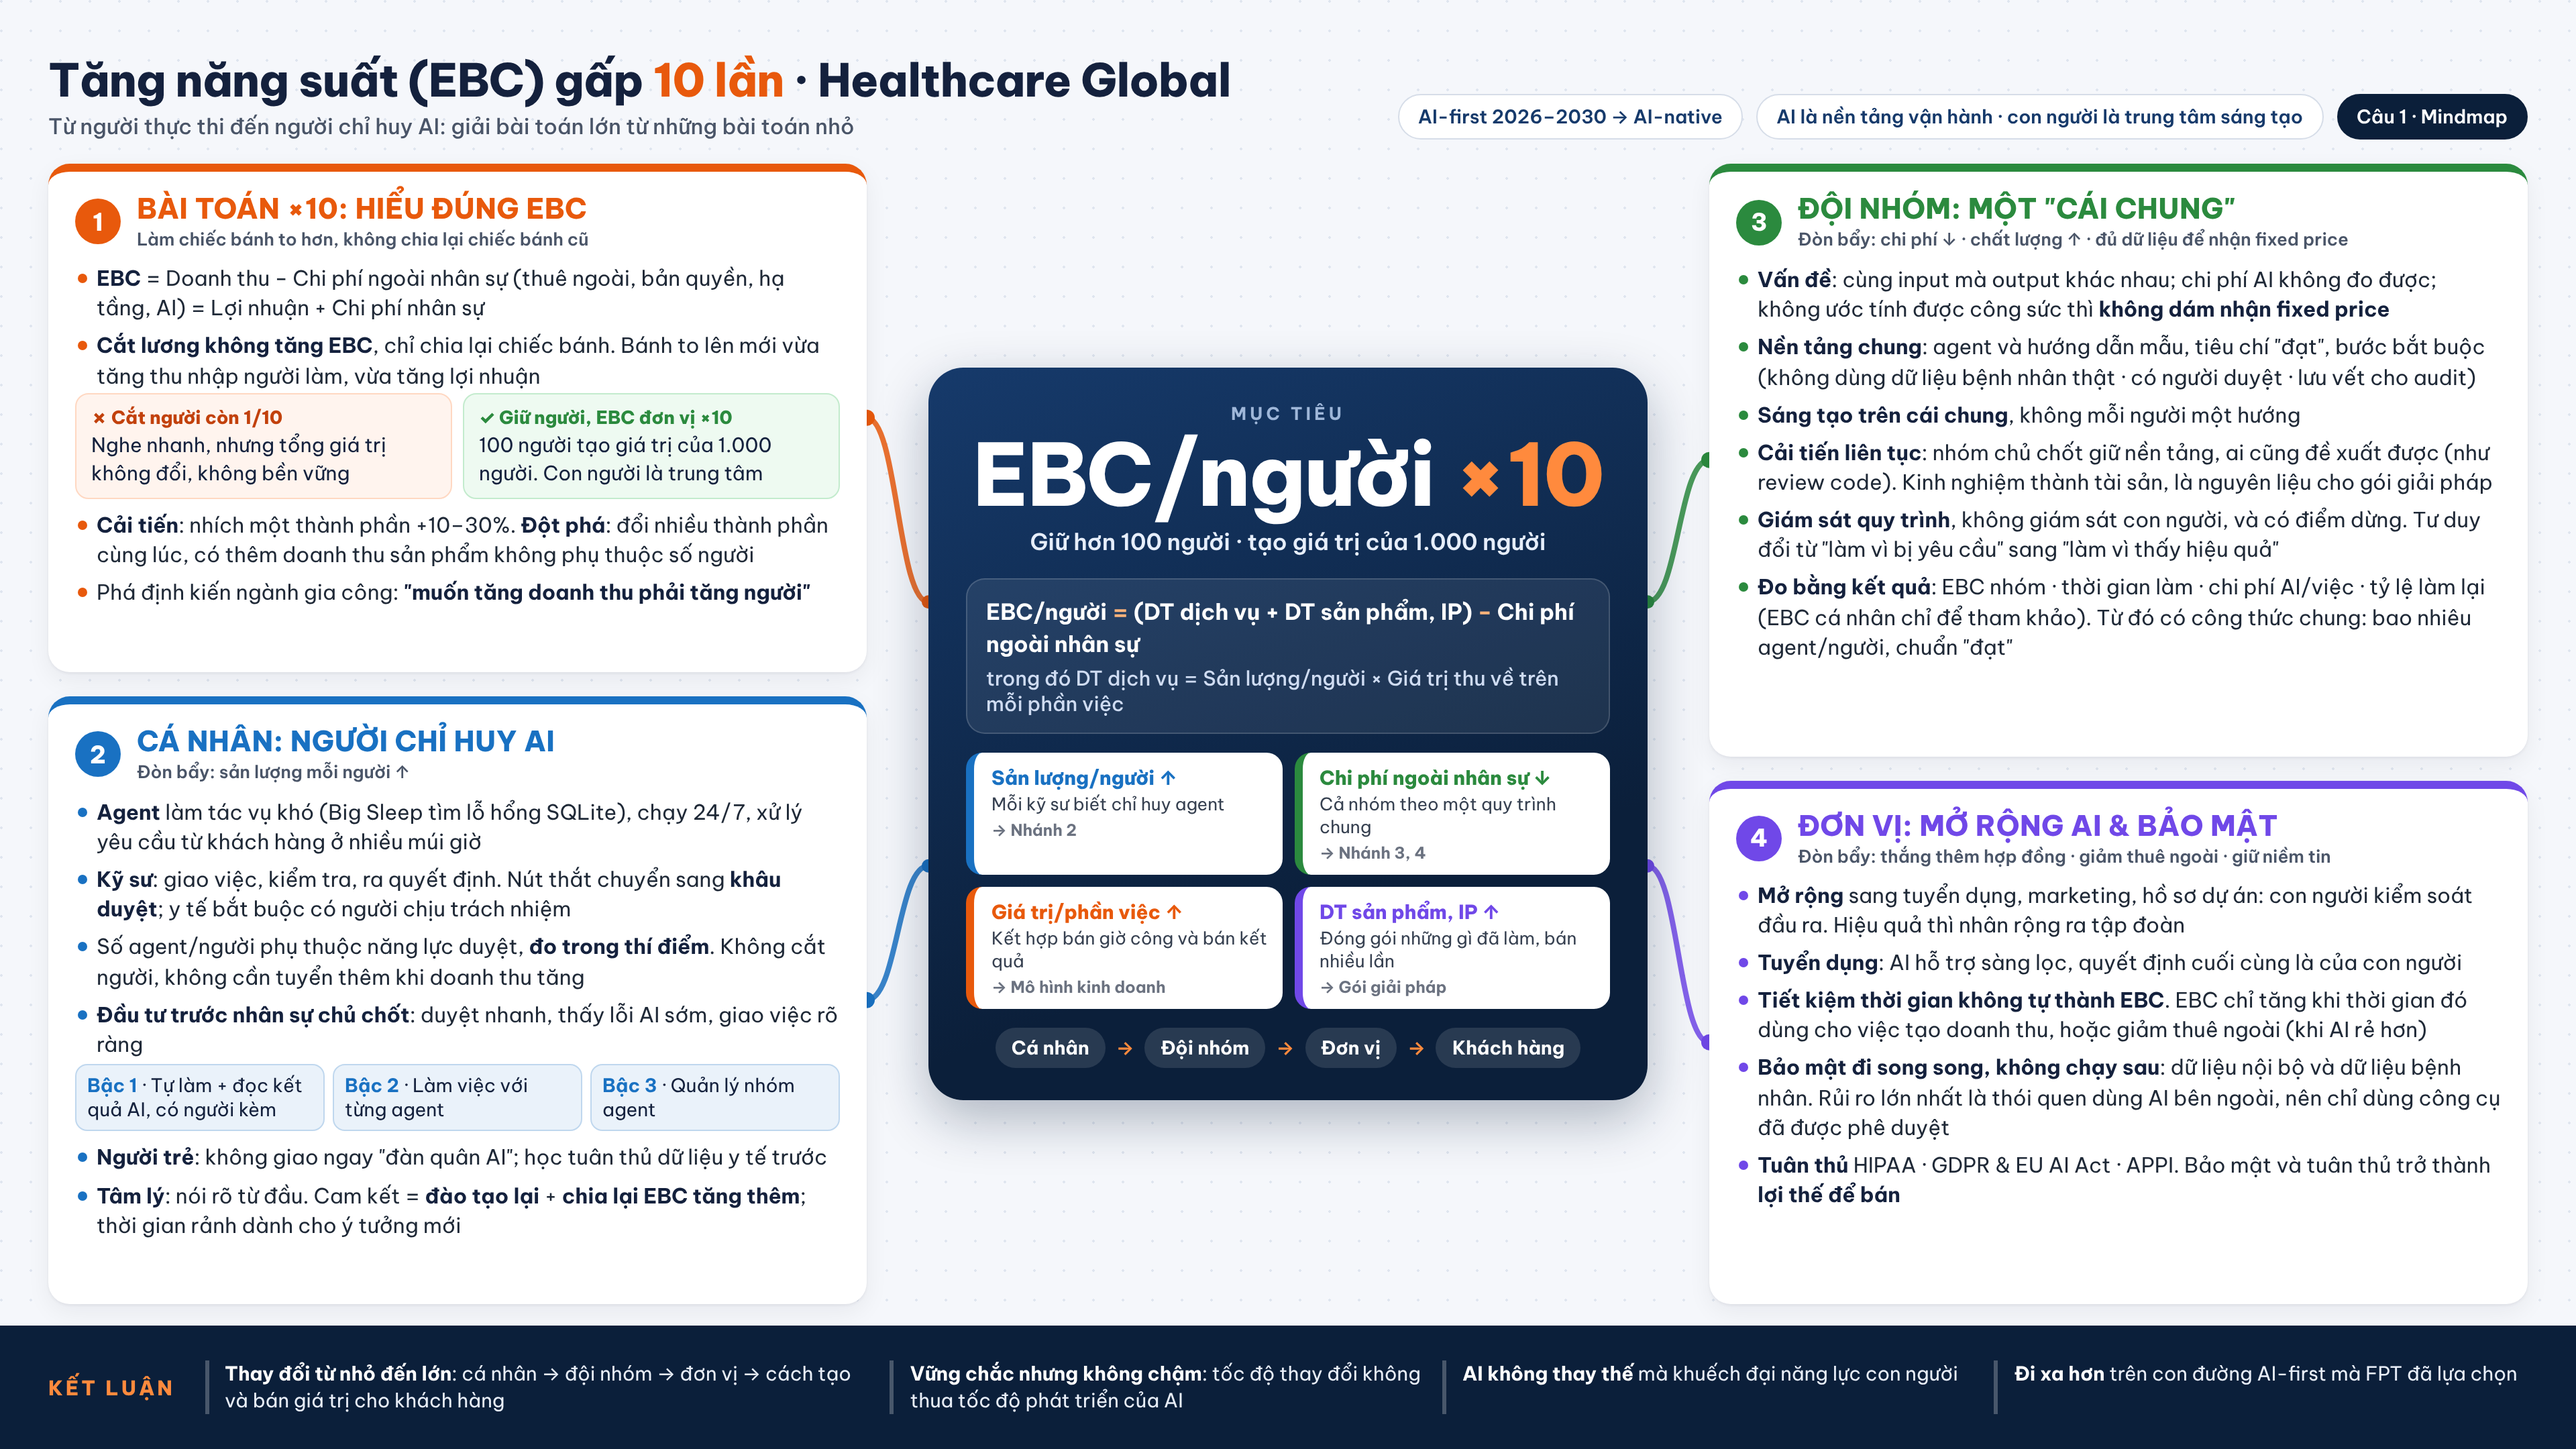
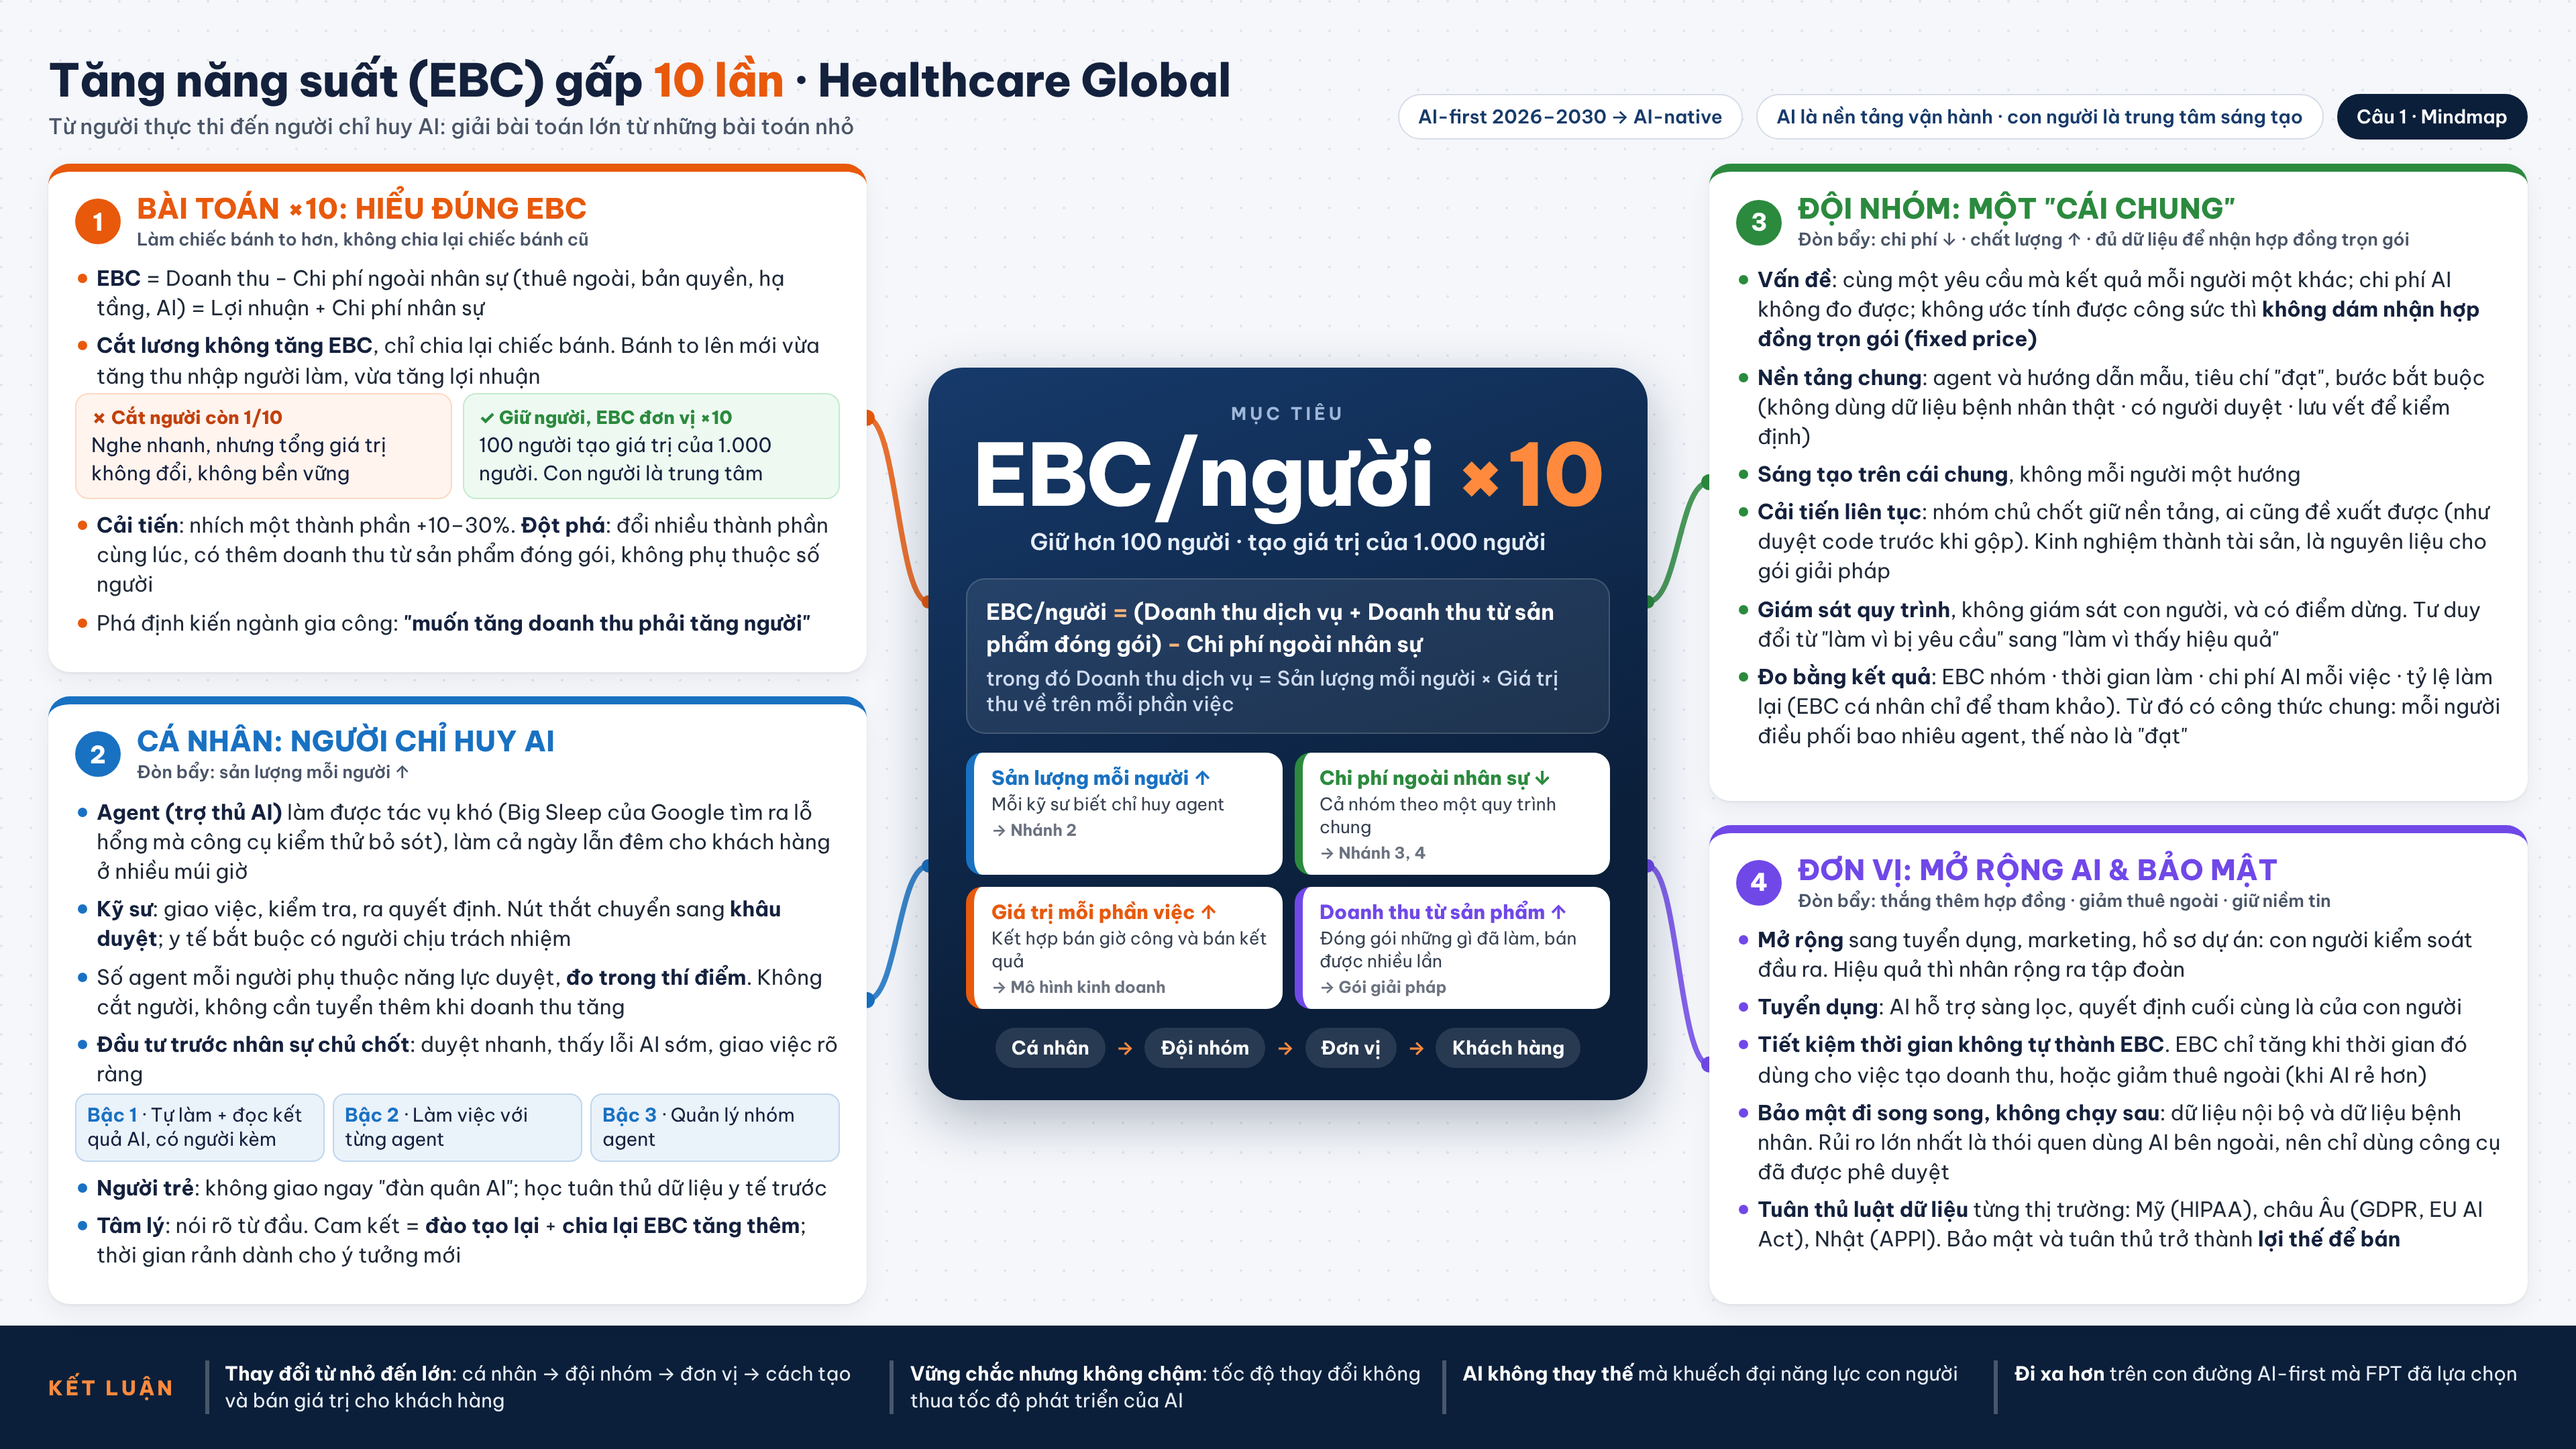
fix: replace abbreviations in mindmap with plain Vietnamese terms
Spell out DT, IP, NS, per-unit slashes, fixed price, audit, input/output
and the data-protection law names so the mindmap reads without jargon.

diff --git a/mindmap/mindmap-cau-1.html b/mindmap/mindmap-cau-1.html
@@ -129,7 +129,7 @@
           <div class="box yes"><div class="h">✓ Giữ người, EBC đơn vị ×10</div>100 người tạo giá trị của 1.000 người. Con người là trung tâm</div>
         </div>
         <ul style="margin-top:8px">
-          <li><b>Cải tiến</b>: nhích một thành phần +10–30%. <b>Đột phá</b>: đổi nhiều thành phần cùng lúc, có thêm doanh thu sản phẩm không phụ thuộc số người</li>
+          <li><b>Cải tiến</b>: nhích một thành phần +10–30%. <b>Đột phá</b>: đổi nhiều thành phần cùng lúc, có thêm doanh thu từ sản phẩm đóng gói, không phụ thuộc số người</li>
           <li>Phá định kiến ngành gia công: <b>"muốn tăng doanh thu phải tăng người"</b></li>
         </ul>
       </section>
@@ -137,9 +137,9 @@
       <section class="card c2" id="n2">
         <header><span class="num">2</span><div><h2>CÁ NHÂN: NGƯỜI CHỈ HUY AI</h2><div class="lever">Đòn bẩy: sản lượng mỗi người ↑</div></div></header>
         <ul>
-          <li><b>Agent</b> làm tác vụ khó (Big Sleep tìm lỗ hổng SQLite), chạy 24/7, xử lý yêu cầu từ khách hàng ở nhiều múi giờ</li>
+          <li><b>Agent (trợ thủ AI)</b> làm được tác vụ khó (Big Sleep của Google tìm ra lỗ hổng mà công cụ kiểm thử bỏ sót), làm cả ngày lẫn đêm cho khách hàng ở nhiều múi giờ</li>
           <li><b>Kỹ sư</b>: giao việc, kiểm tra, ra quyết định. Nút thắt chuyển sang <b>khâu duyệt</b>; y tế bắt buộc có người chịu trách nhiệm</li>
-          <li>Số agent/người phụ thuộc năng lực duyệt, <b>đo trong thí điểm</b>. Không cắt người, không cần tuyển thêm khi doanh thu tăng</li>
+          <li>Số agent mỗi người phụ thuộc năng lực duyệt, <b>đo trong thí điểm</b>. Không cắt người, không cần tuyển thêm khi doanh thu tăng</li>
           <li><b>Đầu tư trước nhân sự chủ chốt</b>: duyệt nhanh, thấy lỗi AI sớm, giao việc rõ ràng</li>
         </ul>
         <div class="steps">
@@ -161,14 +161,14 @@
         <div class="big">EBC/người <span>×10</span></div>
         <div class="tagline">Giữ hơn 100 người · tạo giá trị của 1.000 người</div>
         <div class="formula">
-          <div class="f">EBC/người <span class="eq">=</span> (DT dịch vụ + DT sản phẩm, IP) <span class="eq">−</span> Chi phí ngoài nhân sự</div>
-          <div class="f2">trong đó DT dịch vụ = Sản lượng/người × Giá trị thu về trên mỗi phần việc</div>
+          <div class="f">EBC/người <span class="eq">=</span> (Doanh thu dịch vụ + Doanh thu từ sản phẩm đóng gói) <span class="eq">−</span> Chi phí ngoài nhân sự</div>
+          <div class="f2">trong đó Doanh thu dịch vụ = Sản lượng mỗi người × Giá trị thu về trên mỗi phần việc</div>
         </div>
         <div class="levers">
-          <div class="lv c2"><div class="t">Sản lượng/người ↑</div><div class="d">Mỗi kỹ sư biết chỉ huy agent</div><div class="who">→ Nhánh 2</div></div>
+          <div class="lv c2"><div class="t">Sản lượng mỗi người ↑</div><div class="d">Mỗi kỹ sư biết chỉ huy agent</div><div class="who">→ Nhánh 2</div></div>
           <div class="lv c3"><div class="t">Chi phí ngoài nhân sự ↓</div><div class="d">Cả nhóm theo một quy trình chung</div><div class="who">→ Nhánh 3, 4</div></div>
-          <div class="lv c1"><div class="t">Giá trị/phần việc ↑</div><div class="d">Kết hợp bán giờ công và bán kết quả</div><div class="who">→ Mô hình kinh doanh</div></div>
-          <div class="lv c4"><div class="t">DT sản phẩm, IP ↑</div><div class="d">Đóng gói những gì đã làm, bán nhiều lần</div><div class="who">→ Gói giải pháp</div></div>
+          <div class="lv c1"><div class="t">Giá trị mỗi phần việc ↑</div><div class="d">Kết hợp bán giờ công và bán kết quả</div><div class="who">→ Mô hình kinh doanh</div></div>
+          <div class="lv c4"><div class="t">Doanh thu từ sản phẩm ↑</div><div class="d">Đóng gói những gì đã làm, bán được nhiều lần</div><div class="who">→ Gói giải pháp</div></div>
         </div>
         <div class="tiers"><span class="t">Cá nhân</span><span class="ar">→</span><span class="t">Đội nhóm</span><span class="ar">→</span><span class="t">Đơn vị</span><span class="ar">→</span><span class="t">Khách hàng</span></div>
       </div>
@@ -177,14 +177,14 @@
     <!-- RIGHT -->
     <div class="col">
       <section class="card c3" id="n3">
-        <header><span class="num">3</span><div><h2>ĐỘI NHÓM: MỘT "CÁI CHUNG"</h2><div class="lever">Đòn bẩy: chi phí ↓ · chất lượng ↑ · đủ dữ liệu để nhận fixed price</div></div></header>
+        <header><span class="num">3</span><div><h2>ĐỘI NHÓM: MỘT "CÁI CHUNG"</h2><div class="lever">Đòn bẩy: chi phí ↓ · chất lượng ↑ · đủ dữ liệu để nhận hợp đồng trọn gói</div></div></header>
         <ul>
-          <li><b>Vấn đề</b>: cùng input mà output khác nhau; chi phí AI không đo được; không ước tính được công sức thì <b>không dám nhận fixed price</b></li>
-          <li><b>Nền tảng chung</b>: agent và hướng dẫn mẫu, tiêu chí "đạt", bước bắt buộc (không dùng dữ liệu bệnh nhân thật · có người duyệt · lưu vết cho audit)</li>
+          <li><b>Vấn đề</b>: cùng một yêu cầu mà kết quả mỗi người một khác; chi phí AI không đo được; không ước tính được công sức thì <b>không dám nhận hợp đồng trọn gói (fixed price)</b></li>
+          <li><b>Nền tảng chung</b>: agent và hướng dẫn mẫu, tiêu chí "đạt", bước bắt buộc (không dùng dữ liệu bệnh nhân thật · có người duyệt · lưu vết để kiểm định)</li>
           <li><b>Sáng tạo trên cái chung</b>, không mỗi người một hướng</li>
-          <li><b>Cải tiến liên tục</b>: nhóm chủ chốt giữ nền tảng, ai cũng đề xuất được (như review code). Kinh nghiệm thành tài sản, là nguyên liệu cho gói giải pháp</li>
+          <li><b>Cải tiến liên tục</b>: nhóm chủ chốt giữ nền tảng, ai cũng đề xuất được (như duyệt code trước khi gộp). Kinh nghiệm thành tài sản, là nguyên liệu cho gói giải pháp</li>
           <li><b>Giám sát quy trình</b>, không giám sát con người, và có điểm dừng. Tư duy đổi từ "làm vì bị yêu cầu" sang "làm vì thấy hiệu quả"</li>
-          <li><b>Đo bằng kết quả</b>: EBC nhóm · thời gian làm · chi phí AI/việc · tỷ lệ làm lại (EBC cá nhân chỉ để tham khảo). Từ đó có công thức chung: bao nhiêu agent/người, chuẩn "đạt"</li>
+          <li><b>Đo bằng kết quả</b>: EBC nhóm · thời gian làm · chi phí AI mỗi việc · tỷ lệ làm lại (EBC cá nhân chỉ để tham khảo). Từ đó có công thức chung: mỗi người điều phối bao nhiêu agent, thế nào là "đạt"</li>
         </ul>
       </section>
 
@@ -195,7 +195,7 @@
           <li><b>Tuyển dụng</b>: AI hỗ trợ sàng lọc, quyết định cuối cùng là của con người</li>
           <li><b>Tiết kiệm thời gian không tự thành EBC</b>. EBC chỉ tăng khi thời gian đó dùng cho việc tạo doanh thu, hoặc giảm thuê ngoài (khi AI rẻ hơn)</li>
           <li><b>Bảo mật đi song song, không chạy sau</b>: dữ liệu nội bộ và dữ liệu bệnh nhân. Rủi ro lớn nhất là thói quen dùng AI bên ngoài, nên chỉ dùng công cụ đã được phê duyệt</li>
-          <li><b>Tuân thủ</b> HIPAA · GDPR & EU AI Act · APPI. Bảo mật và tuân thủ trở thành <b>lợi thế để bán</b></li>
+          <li><b>Tuân thủ luật dữ liệu</b> từng thị trường: Mỹ (HIPAA), châu Âu (GDPR, EU AI Act), Nhật (APPI). Bảo mật và tuân thủ trở thành <b>lợi thế để bán</b></li>
         </ul>
       </section>
     </div>
